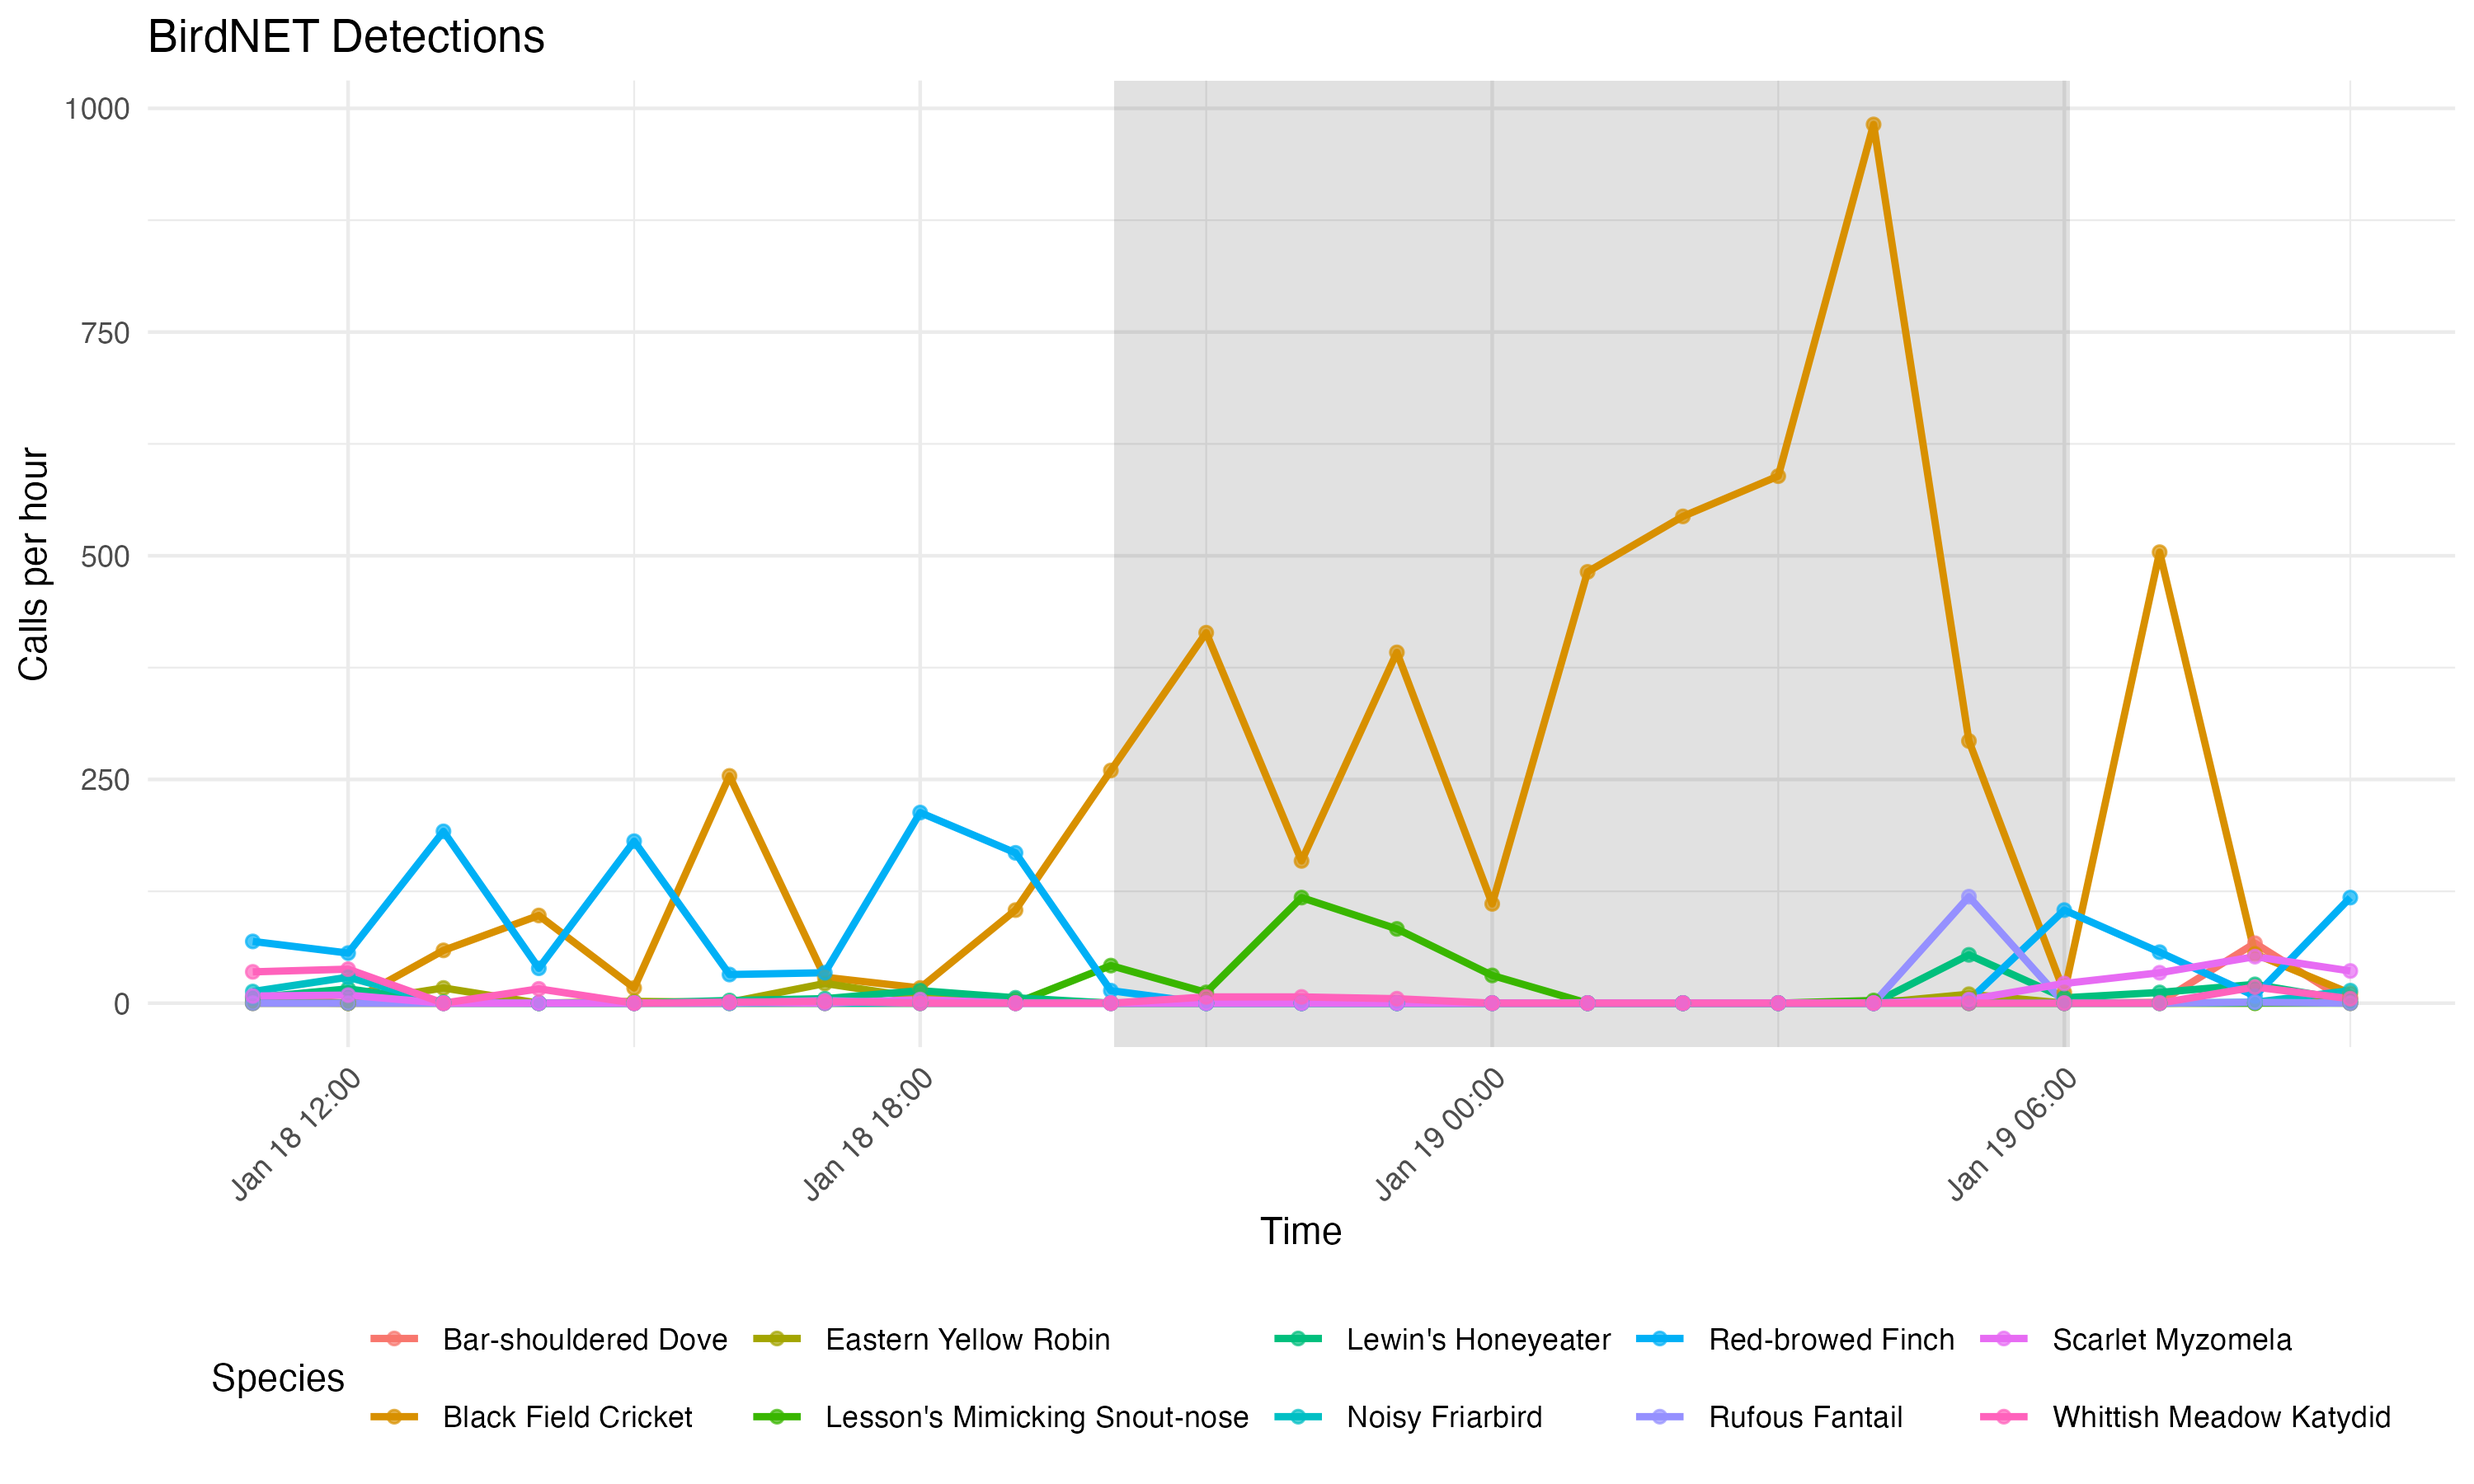
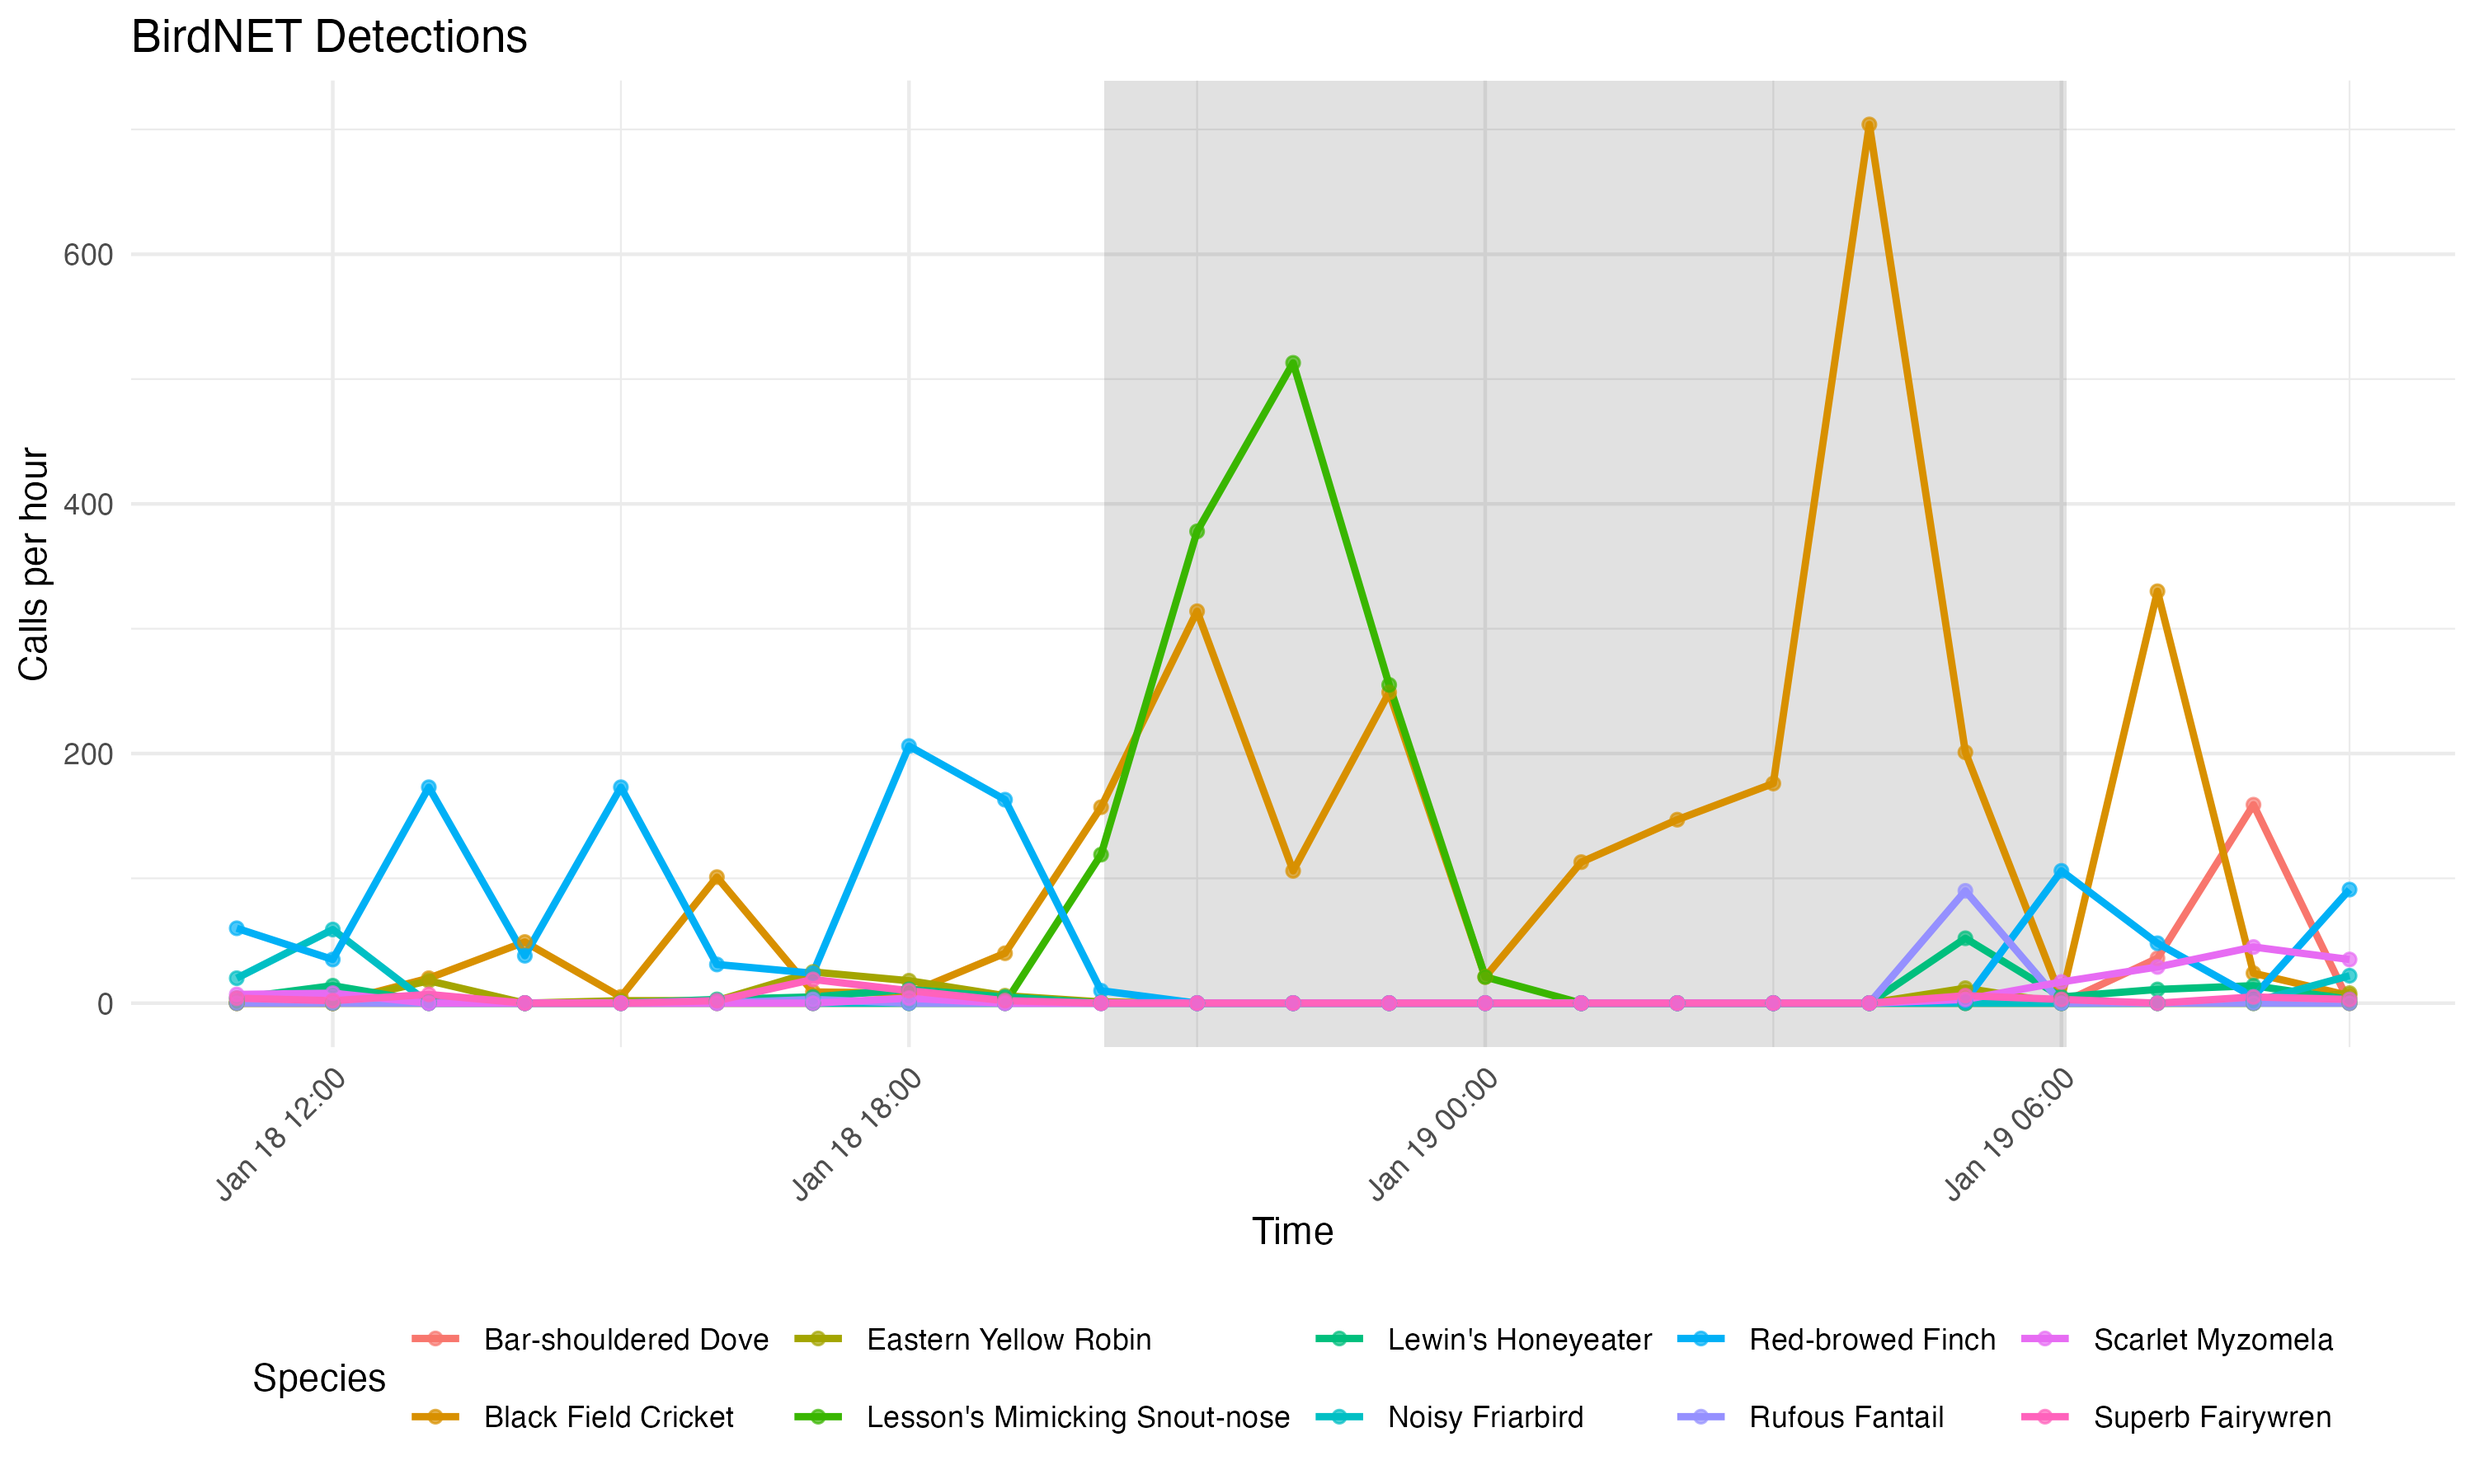
updates

diff --git a/README.md b/README.md
@@ -19,7 +19,7 @@ results which can be overwhelming in their volume.
 ``` r
 # install.packages("devtools") # if needed
 devtools::install_github("traitecoevo/birdnetprocess")
-#> Skipping install of 'birdnetprocess' from a github remote, the SHA1 (18ce478b) has not changed since last install.
+#> Skipping install of 'birdnetprocess' from a github remote, the SHA1 (ad9b8330) has not changed since last install.
 #>   Use `force = TRUE` to force installation
 ```
 
@@ -113,7 +113,7 @@ data <- read_birdnet_folder("detections_SL21", recursive = FALSE)
 Get a summary of your dataset:
 
 ``` r
-birdnetprocess::summarise_detections(data, confidence = 0.5)
+birdnetprocess::summarise_detections(data, confidence = 0.7)
 # # A tibble: 7 × 2
 #   statistic                   value
 #   <chr>                       <chr>
@@ -122,8 +122,8 @@ birdnetprocess::summarise_detections(data, confidence = 0.5)
 # 3 Recording window            18 Jan 26 - 19 Jan 26
 # 4 Most common species           Black Field Cricket
 # 5 Peak hour                   2026-01-19 04:21:02
-# 6 Average recordings per day  4021
-# 7 Average recordings per hour 178.7111
+# 6 Average detections per day  4021
+# 7 Average detections per hour 178.7111
 ```
 
 **Quick Calls**
@@ -152,7 +152,7 @@ longitude, and timezone for the shading to work.
 birdnetprocess::plot_top_species(
   data,
   n_top_species = 10,
-  confidence = 0.5,
+  confidence = 0.6,
   latitude = -32.44, # Required for suncalc
   longitude = 152.24, # Required for suncalc
   tz = "Australia/Sydney"
